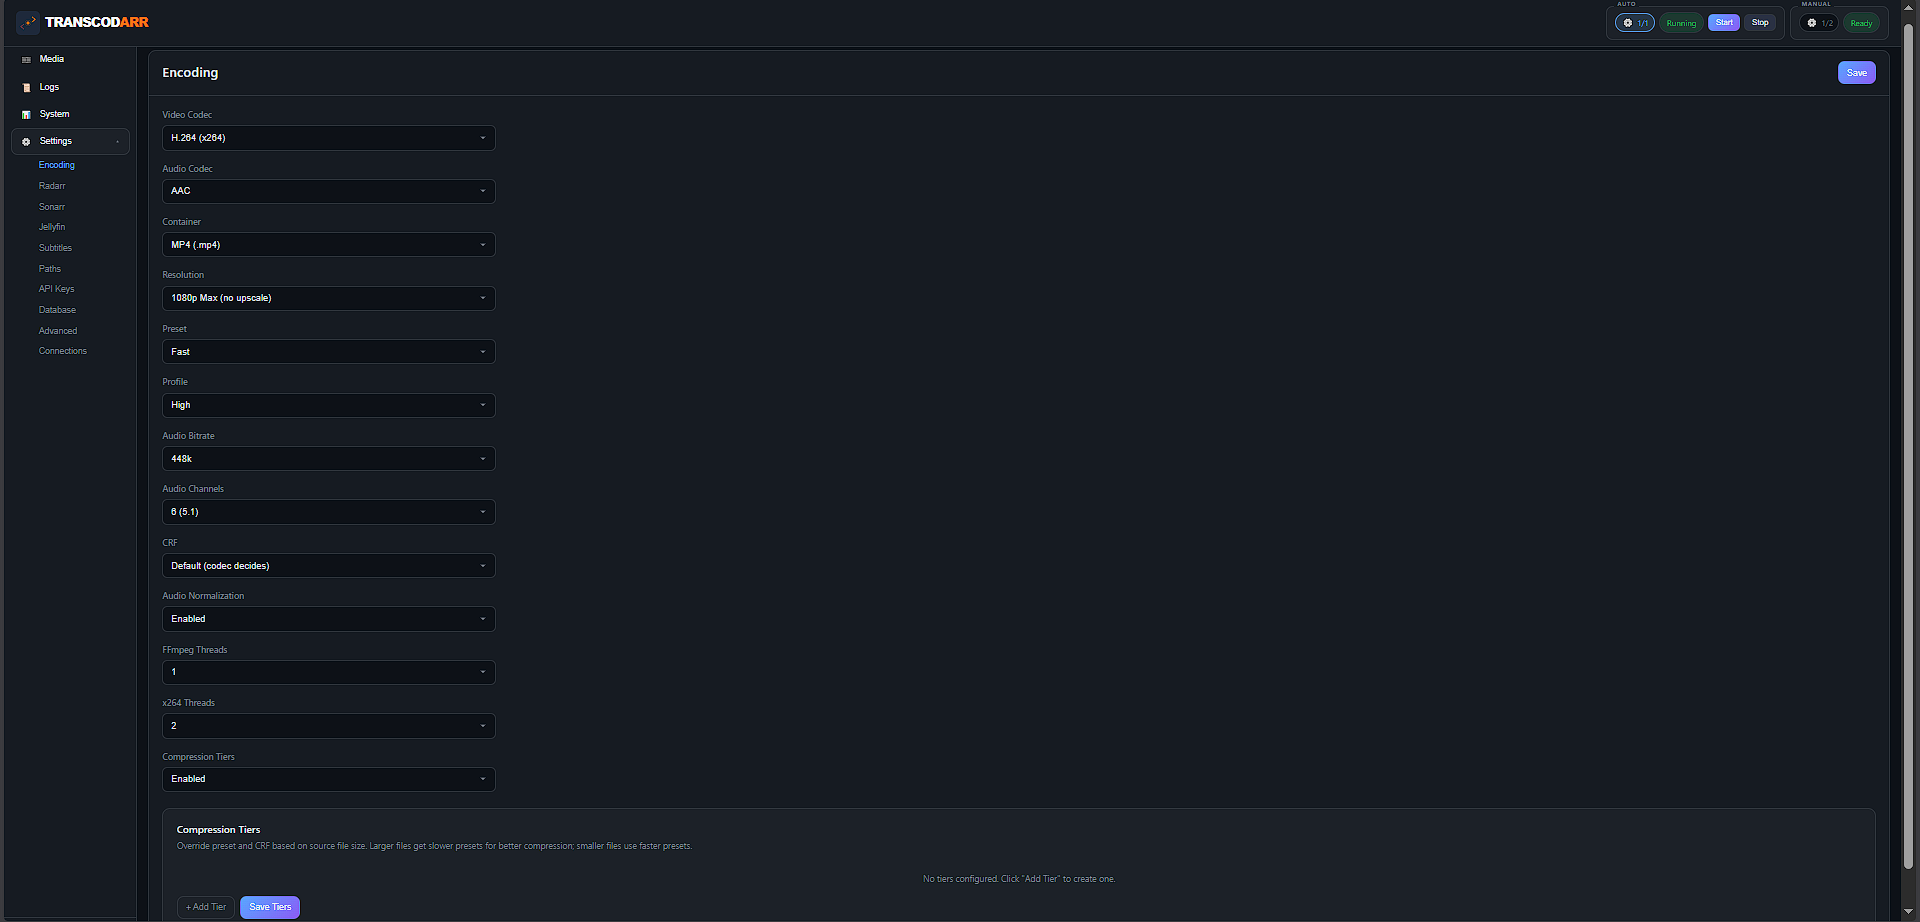
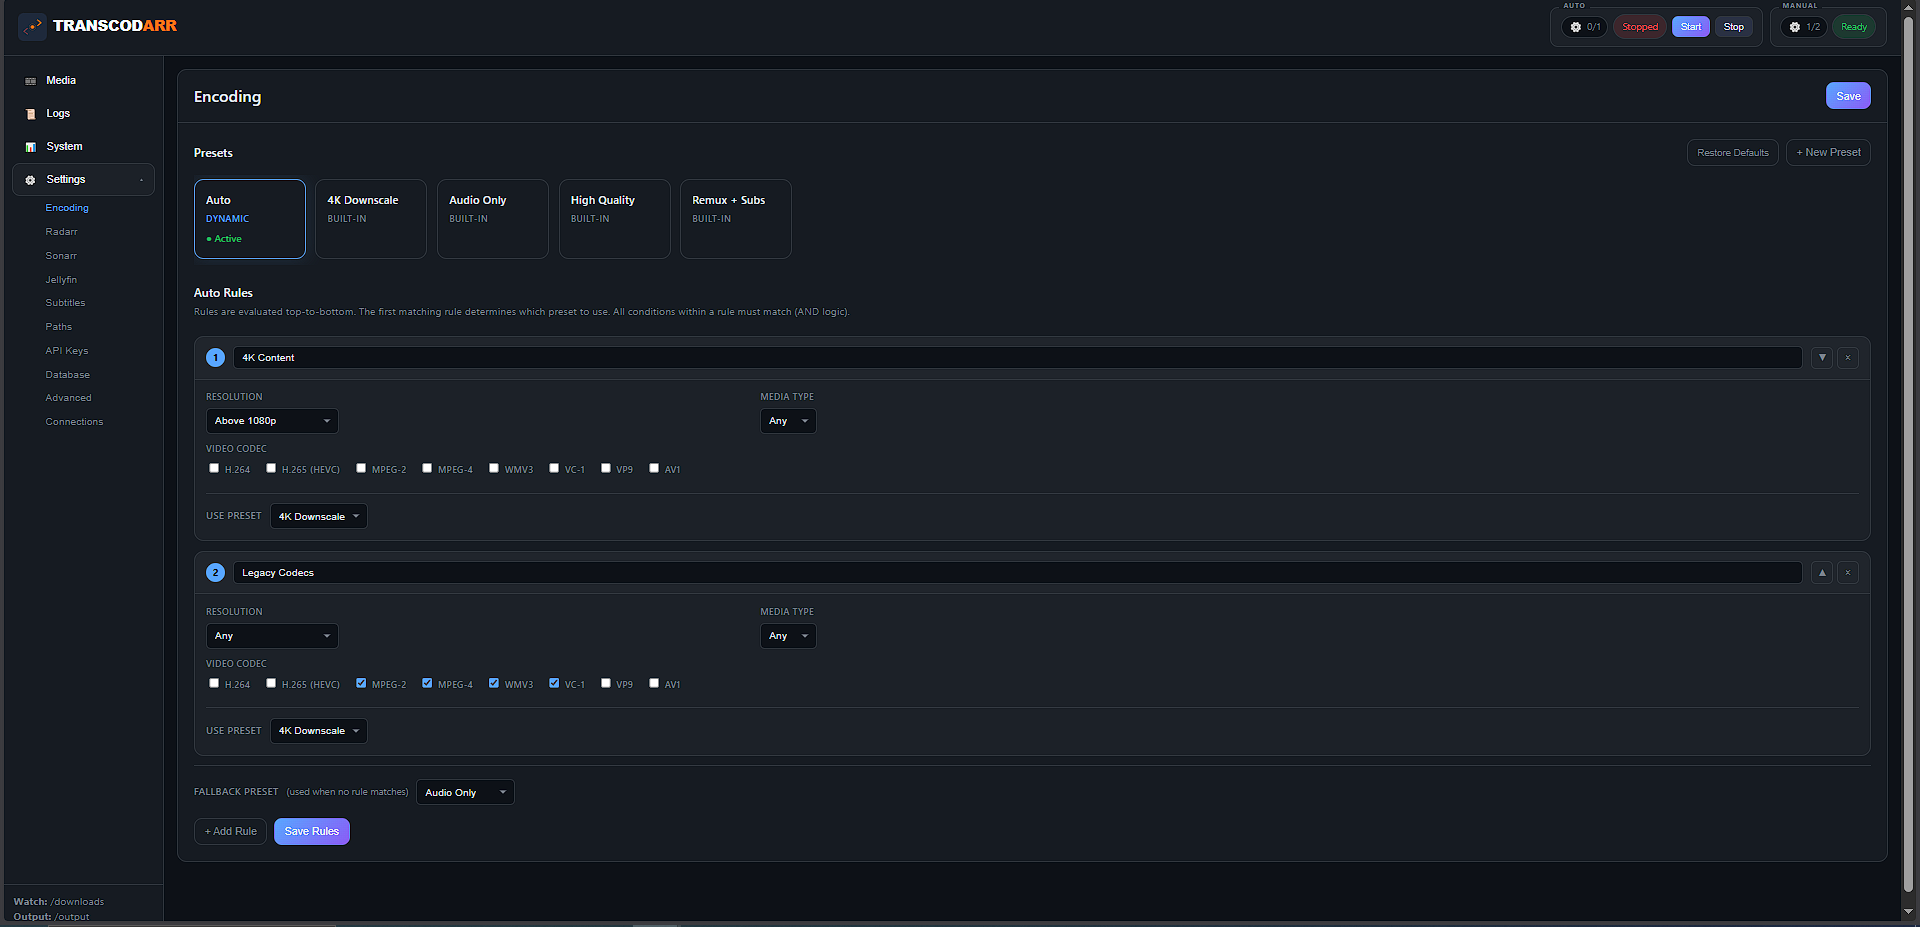
Update screenshots for Auto preset and encoding settings

diff --git a/README.md b/README.md
@@ -40,7 +40,7 @@ Download Client ──► Watch Folder ──► Transcodarr ──► Output Li
 - Real-time progress tracking with percentage and file size
 - Output verification (duration, streams, file size sanity checks)
 
-![Encoding Presets](screenshots/screenshot-8.PNG)
+![Encoding Preset Settings](screenshots/screenshot-8.PNG)
 
 **Subtitles**
 - Multi-provider fetching: OpenSubtitles.com, Podnapisi, Addic7ed
@@ -99,7 +99,7 @@ Open `http://localhost:5025` and configure through the Settings page:
 
 Click **Start** in the header to begin watching for files.
 
-![Encoding Settings](screenshots/screenshot-4.png)
+![Auto Preset Rules](screenshots/screenshot-4.png)
 
 ![Connections Settings](screenshots/screenshot-5.png)
 
